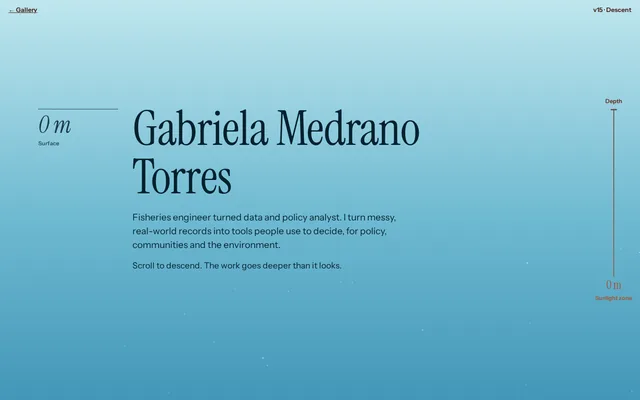
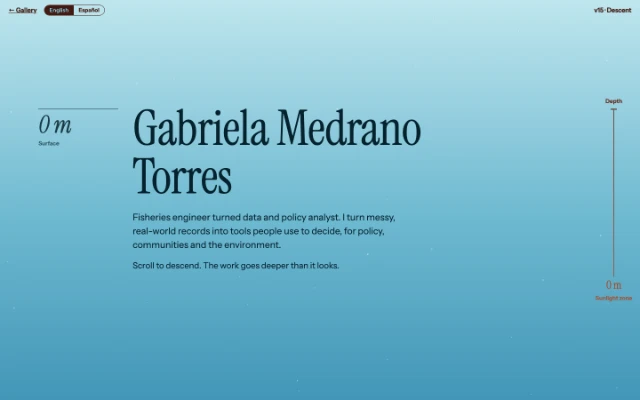
Updated notes and thumbnail in v15

diff --git a/a1-accelerated-prototyping/index.html b/a1-accelerated-prototyping/index.html
@@ -145,7 +145,7 @@ footer a{color:#fff}
 <a class="card" href="v12.html" style="--rc:#8a6a4a"><img src="assets/thumbs/v12.webp" width="640" height="400" loading="lazy" alt="Screenshot of v12, Walk list"><span class="hd"><span class="no">v12</span><h3>Walk list</h3></span><p>A COFI canvassing sheet on a clipboard, one door per chapter of my story. Warm and specific to organizing; the handwriting slows reading down.</p></a>
 <a class="card" href="v13.html" style="--rc:#8a6a4a"><img src="assets/thumbs/v13.webp" width="640" height="400" loading="lazy" alt="Screenshot of v13, Single column"><span class="hd"><span class="no">v13</span><h3>Single column</h3></span><p>A calm page with no decoration at all. The most readable baseline, and the most forgettable.</p></a>
 <a class="card" href="v14.html" style="--rc:#8a6a4a"><img src="assets/thumbs/v14.webp" width="640" height="400" loading="lazy" alt="Screenshot of v14, Decision path"><span class="hd"><span class="no">v14</span><h3>Decision path</h3></span><p>One question at a time: visitors pick a decision and get the matching evidence. Fast routing to proof, but it adds clicks before anything substantive.</p></a>
-<a class="card" href="v15.html" style="--rc:#8a6a4a"><img src="assets/thumbs/v15.webp" width="640" height="400" loading="lazy" alt="Screenshot of v15, Descent"><span class="hd"><span class="no">v15</span><h3>Descent</h3></span><p>A scroll from the surface to 1,000 m with a depth gauge, using the squid’s daily migration as a metaphor. Now in English and Spanish, with a language switch. A long scroll for little content.</p></a>
+<a class="card" href="v15.html" style="--rc:#8a6a4a"><img src="assets/thumbs/v15.webp" width="640" height="400" loading="lazy" alt="Screenshot of v15, Descent"><span class="hd"><span class="no">v15</span><h3>Descent</h3></span><p>A scroll from the surface to 1,000 m with a depth gauge, using the squid’s daily migration as a metaphor. It now switches between English and Spanish, because Spanish is my native language. A long scroll for little content.</p></a>
   </div>
   <div class="lessons">
     <div><h3>What I kept</h3><ul><li>One signature visual that carries real data: the khipu (v08).</li><li>A credible brief structure and its typography (v17, from v01).</li><li>Bilingual as a switch, not a duplicate (v06, then v19).</li><li>Projects before biography (v13).</li></ul></div>
